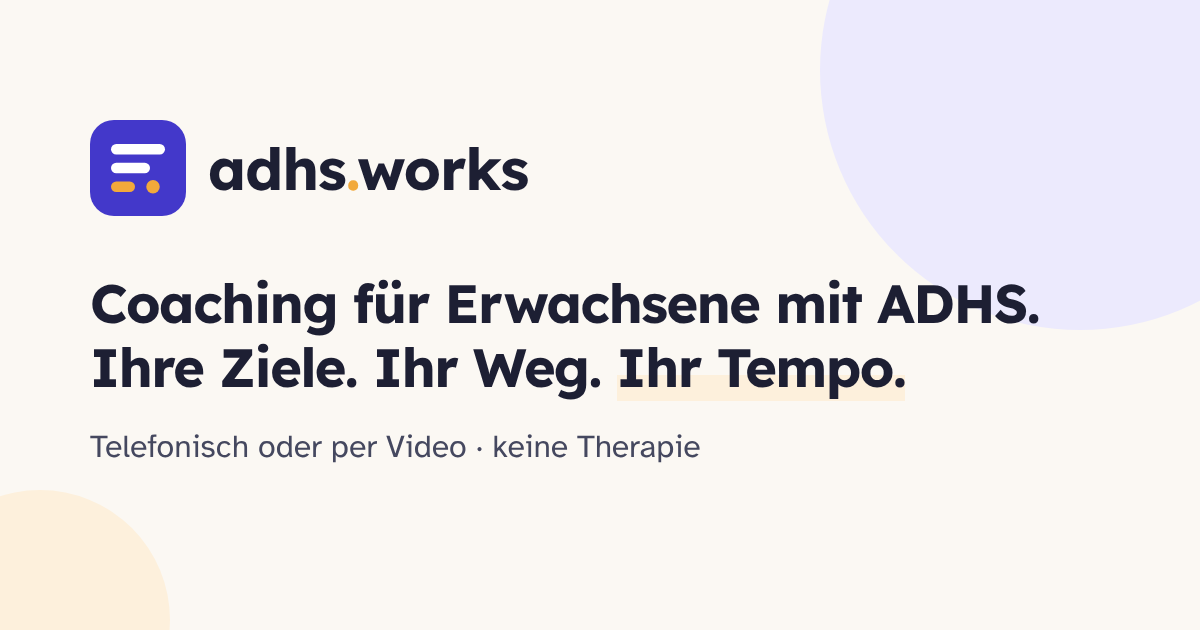
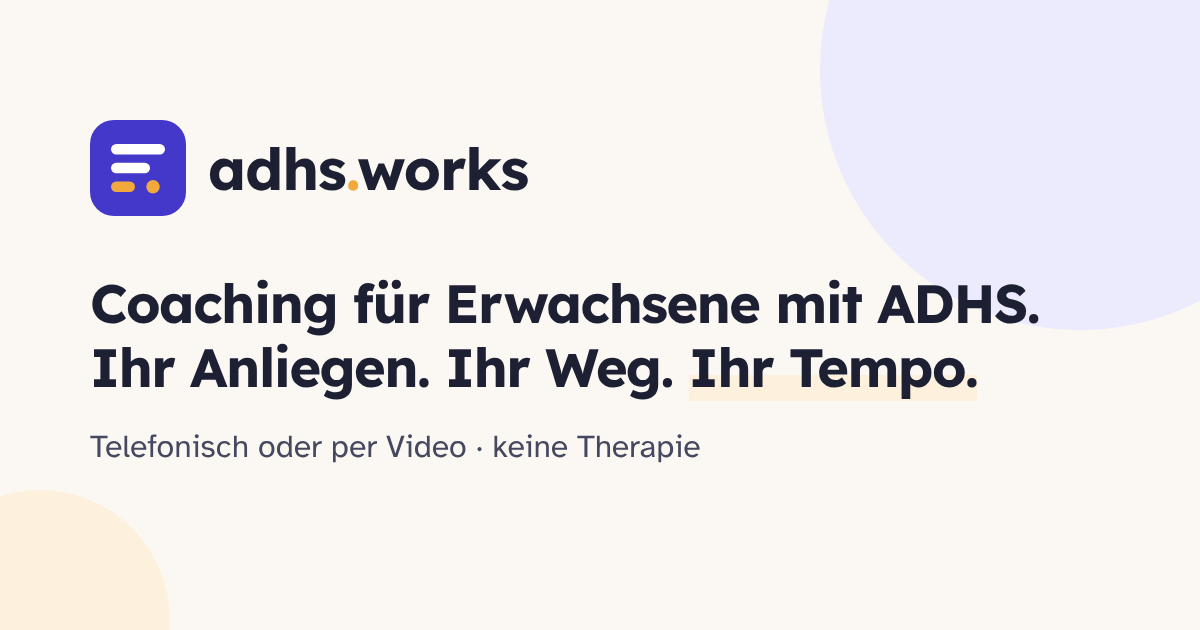
Anliegen statt Ziele, ohne Thema Alltag organisieren
Erster Schritt heißt hier "Anliegen klären". Das Wort "Ziel" kommt auf
der Website nicht mehr vor, die Themenkarte "Alltag organisieren" ist
gestrichen. Neues Spitzenzitat: "Coaching beginnt bei dem, was Sie
wollen und was Sie brauchen – nicht bei einer Diagnose."

Claude-Session: https://claude.ai/code/session_01SMp8GpMZ6WGt8Qen4bSYtE

Changed region(s): [[0.1233, 0.5429, 0.8325, 0.6333]]

diff --git a/index.html b/index.html
@@ -4,13 +4,13 @@
   <meta charset="utf-8" />
   <meta name="viewport" content="width=device-width, initial-scale=1" />
   <title>Coaching für Erwachsene mit ADHS – telefonisch und per Video | adhs.works</title>
-  <meta name="description" content="Coaching für Erwachsene mit ADHS: Beruf, Studium und Alltag nach Ihren Zielen gestalten. Keine Therapie. Telefonisch oder per Video, Erstgespräch kostenlos." />
+  <meta name="description" content="Coaching für Erwachsene mit ADHS zu Beruf, Studium und Entscheidungen – ausgehend von dem, was Sie wollen. Keine Therapie. Erstgespräch kostenlos." />
   <link rel="canonical" href="https://adhs.works/" />
   <meta property="og:type" content="website" />
   <meta property="og:title" content="Coaching für Erwachsene mit ADHS – adhs.works" />
-  <meta property="og:description" content="Beruf, Studium und Alltag nach Ihren Zielen gestalten. Keine Therapie. Telefonisch oder per Video, Erstgespräch kostenlos." />
+  <meta property="og:description" content="Beruf, Studium und Entscheidungen – ausgehend von dem, was Sie wollen und brauchen. Keine Therapie. Telefonisch oder per Video, Erstgespräch kostenlos." />
   <meta property="og:url" content="https://adhs.works/" />
-  <meta property="og:image" content="https://adhs.works/assets/img/og-image.png?v=2" />
+  <meta property="og:image" content="https://adhs.works/assets/img/og-image.png?v=3" />
   <meta property="og:locale" content="de_DE" />
   <meta property="og:site_name" content="adhs.works" />
   <meta name="theme-color" content="#fbf8f3" />
@@ -37,7 +37,7 @@
         "name": "Coaching für Erwachsene mit ADHS",
         "serviceType": "Coaching",
         "url": "https://adhs.works/",
-        "description": "Coaching für Erwachsene mit ADHS zu beruflichen und persönlichen Zielen: Beruf, Arbeitsumfeld, Studium, Alltagsorganisation, Entscheidungen. Keine Therapie und keine Heilbehandlung. Telefonisch oder per Videokonferenz.",
+        "description": "Coaching für Erwachsene mit ADHS zu beruflichen und persönlichen Anliegen: Beruf, Arbeitsumfeld, Studium, Entscheidungen, Stärken. Keine Therapie und keine Heilbehandlung. Telefonisch oder per Videokonferenz.",
         "provider": { "@id": "https://adhs.works/#person" },
         "areaServed": { "@type": "Country", "name": "Deutschland" },
         "audience": { "@type": "PeopleAudience", "audienceType": "Erwachsene mit ADHS" },
@@ -83,7 +83,7 @@
         <div class="hero-inner">
           <div class="hero-copy">
             <span class="eyebrow">Coaching für Erwachsene mit ADHS</span>
-            <h1>Ihre Ziele. Ihr Weg. <span class="hl">Ihr Tempo.</span></h1>
+            <h1>Ihr Anliegen. Ihr Weg. <span class="hl">Ihr Tempo.</span></h1>
             <p class="hero-lead">Sie wollen beruflich oder privat etwas voranbringen? Im Coaching klären wir Ihr Anliegen, erarbeiten Lösungen, die zu Ihrer Arbeitsweise passen, und ich begleite Sie bei der Umsetzung.</p>
             <div class="hero-actions">
               <a class="btn btn-primary" href="#erstgespraech">
@@ -113,7 +113,7 @@
             </li>
             <li>
               <svg viewBox="0 0 24 24" fill="none" stroke="currentColor" stroke-width="2.2" stroke-linecap="round" stroke-linejoin="round" aria-hidden="true"><circle cx="12" cy="12" r="9"/><circle cx="12" cy="12" r="5"/><circle cx="12" cy="12" r="1"/></svg>
-              <span><strong>Ihre Ziele im Mittelpunkt:</strong> Beruf, Studium, Alltag, Entscheidungen.</span>
+              <span><strong>Im Mittelpunkt steht, was Sie wollen:</strong> Beruf, Arbeitsumfeld, Studium, Entscheidungen.</span>
             </li>
             <li>
               <svg viewBox="0 0 24 24" fill="none" stroke="currentColor" stroke-width="2.2" stroke-linecap="round" stroke-linejoin="round" aria-hidden="true"><path d="M22 16.9v3a2 2 0 0 1-2.2 2 19.8 19.8 0 0 1-8.6-3.1 19.5 19.5 0 0 1-6-6A19.8 19.8 0 0 1 2.1 4.2 2 2 0 0 1 4.1 2h3a2 2 0 0 1 2 1.7c.1.9.4 1.8.7 2.7a2 2 0 0 1-.5 2.1L8 9.8a16 16 0 0 0 6 6l1.3-1.3a2 2 0 0 1 2.1-.4c.9.3 1.8.6 2.7.7a2 2 0 0 1 1.7 2z"/></svg>
@@ -154,12 +154,12 @@
           <li><span class="box" aria-hidden="true"><svg viewBox="0 0 24 24" fill="none" stroke="currentColor" stroke-width="3" stroke-linecap="round" stroke-linejoin="round"><path d="M20 6L9 17l-5-5"/></svg></span>Sie wollen beruflich etwas verändern oder neu anfangen.</li>
           <li><span class="box" aria-hidden="true"><svg viewBox="0 0 24 24" fill="none" stroke="currentColor" stroke-width="3" stroke-linecap="round" stroke-linejoin="round"><path d="M20 6L9 17l-5-5"/></svg></span>Sie stehen vor einer Entscheidung und wollen Klarheit.</li>
           <li><span class="box" aria-hidden="true"><svg viewBox="0 0 24 24" fill="none" stroke="currentColor" stroke-width="3" stroke-linecap="round" stroke-linejoin="round"><path d="M20 6L9 17l-5-5"/></svg></span>Sie möchten ein Vorhaben endlich in die Tat umsetzen.</li>
-          <li><span class="box" aria-hidden="true"><svg viewBox="0 0 24 24" fill="none" stroke="currentColor" stroke-width="3" stroke-linecap="round" stroke-linejoin="round"><path d="M20 6L9 17l-5-5"/></svg></span>Sie suchen eine Ordnung für Ihren Alltag, die zu Ihnen passt.</li>
+          <li><span class="box" aria-hidden="true"><svg viewBox="0 0 24 24" fill="none" stroke="currentColor" stroke-width="3" stroke-linecap="round" stroke-linejoin="round"><path d="M20 6L9 17l-5-5"/></svg></span>Sie wollen klären, was Sie im Job brauchen, um gut zu arbeiten.</li>
           <li><span class="box" aria-hidden="true"><svg viewBox="0 0 24 24" fill="none" stroke="currentColor" stroke-width="3" stroke-linecap="round" stroke-linejoin="round"><path d="M20 6L9 17l-5-5"/></svg></span>Sie wollen Ihre Stärken im Job gezielter einsetzen.</li>
           <li><span class="box" aria-hidden="true"><svg viewBox="0 0 24 24" fill="none" stroke="currentColor" stroke-width="3" stroke-linecap="round" stroke-linejoin="round"><path d="M20 6L9 17l-5-5"/></svg></span>Sie starten ins Studium, in eine Ausbildung oder in die Selbstständigkeit.</li>
         </ul>
         <div class="callout">
-          <p><strong>Im Mittelpunkt stehen Ihre Ziele, nicht Ihre Diagnose.</strong> Das Coaching nimmt Rücksicht darauf, wie Sie arbeiten. ADHS selbst ist nicht Gegenstand des Coachings.</p>
+          <p><strong>Es geht um Ihr Anliegen, nicht um Ihre Diagnose.</strong> Das Coaching nimmt Rücksicht darauf, wie Sie arbeiten. ADHS selbst ist nicht Gegenstand des Coachings.</p>
         </div>
         <p class="next"><a href="#themen">Weiter: Woran wir arbeiten können
           <svg viewBox="0 0 24 24" fill="none" stroke="currentColor" stroke-width="2.2" stroke-linecap="round" stroke-linejoin="round" aria-hidden="true"><path d="M12 5v14M6 13l6 6 6-6"/></svg></a></p>
@@ -178,7 +178,7 @@
           <article class="topic">
             <div class="topic-icon"><svg viewBox="0 0 24 24" fill="none" stroke="currentColor" stroke-width="2" stroke-linecap="round" stroke-linejoin="round" aria-hidden="true"><rect x="3" y="7" width="18" height="13" rx="2"/><path d="M8 7V5a2 2 0 0 1 2-2h4a2 2 0 0 1 2 2v2M3 13h18"/></svg></div>
             <h3>Beruf und Laufbahn</h3>
-            <p>Berufliche Ziele klären, einen Wechsel vorbereiten, den nächsten Schritt planen.</p>
+            <p>Klären, wohin Sie beruflich wollen, einen Wechsel vorbereiten, den nächsten Schritt planen.</p>
           </article>
           <article class="topic">
             <div class="topic-icon"><svg viewBox="0 0 24 24" fill="none" stroke="currentColor" stroke-width="2" stroke-linecap="round" stroke-linejoin="round" aria-hidden="true"><path d="M21 15a2 2 0 0 1-2 2H7l-4 4V5a2 2 0 0 1 2-2h14a2 2 0 0 1 2 2z"/></svg></div>
@@ -191,11 +191,6 @@
             <p>Semester, Lernphasen und Abschlussarbeiten so planen, dass der Plan zu Ihnen passt.</p>
           </article>
           <article class="topic">
-            <div class="topic-icon"><svg viewBox="0 0 24 24" fill="none" stroke="currentColor" stroke-width="2" stroke-linecap="round" stroke-linejoin="round" aria-hidden="true"><rect x="3" y="3" width="7" height="7" rx="1.5"/><rect x="14" y="3" width="7" height="7" rx="1.5"/><rect x="3" y="14" width="7" height="7" rx="1.5"/><rect x="14" y="14" width="7" height="7" rx="1.5"/></svg></div>
-            <h3>Alltag organisieren</h3>
-            <p>Abläufe, Termine und Aufgaben so ordnen, wie es für Sie funktioniert – nicht nach Schema F.</p>
-          </article>
-          <article class="topic">
             <div class="topic-icon"><svg viewBox="0 0 24 24" fill="none" stroke="currentColor" stroke-width="2" stroke-linecap="round" stroke-linejoin="round" aria-hidden="true"><path d="M6 3v12M18 9v12M6 15a3 3 0 1 0 0 6 3 3 0 0 0 0-6zM18 3a3 3 0 1 0 0 6 3 3 0 0 0 0-6zM6 9c0 6 12 0 12 6"/></svg></div>
             <h3>Entscheidungen</h3>
             <p>Möglichkeiten sortieren, abwägen und zu einer Entscheidung kommen, hinter der Sie stehen.</p>
@@ -203,7 +198,7 @@
           <article class="topic">
             <div class="topic-icon"><svg viewBox="0 0 24 24" fill="none" stroke="currentColor" stroke-width="2" stroke-linecap="round" stroke-linejoin="round" aria-hidden="true"><path d="M12 2l3 6.5 7 .8-5.2 4.8 1.4 7L12 17.6 5.8 21.1l1.4-7L2 9.3l7-.8L12 2z"/></svg></div>
             <h3>Stärken einsetzen</h3>
-            <p>Begeisterung und Ideenreichtum dort einsetzen, wo sie Sie und Ihre Ziele voranbringen.</p>
+            <p>Begeisterung und Ideenreichtum dort einsetzen, wo sie Sie voranbringen.</p>
           </article>
         </div>
         <p class="next"><a href="#ablauf">Weiter: So arbeiten wir
@@ -222,13 +217,13 @@
         <ol class="process">
           <li class="step">
             <div class="n" aria-hidden="true">1</div>
-            <h3>Probleme entdecken</h3>
-            <p>Worum geht es Ihnen? Wir klären Ihr Anliegen und Ihr Ziel.</p>
+            <h3>Anliegen klären</h3>
+            <p>Worum geht es Ihnen? Wir klären, was Sie wollen und was Sie dafür brauchen.</p>
           </li>
           <li class="step">
             <div class="n" aria-hidden="true">2</div>
             <h3>Tiefgreifend verstehen</h3>
-            <p>Was steht dem Ziel im Weg, was hilft schon? Wir schauen auf Ihre Situation und Ihre Rahmenbedingungen.</p>
+            <p>Was steht Ihrem Vorhaben im Weg, was hilft schon? Wir schauen auf Ihre Situation und Ihre Rahmenbedingungen.</p>
           </li>
           <li class="step">
             <div class="n" aria-hidden="true">3</div>
@@ -250,7 +245,7 @@
     <section class="section">
       <div class="container">
         <blockquote class="quote">
-          <p>„Coaching beginnt bei <span class="hl">Ihren Zielen</span> – nicht bei einer Diagnose.“</p>
+          <p>„Coaching beginnt bei dem, <span class="hl">was Sie wollen und was Sie brauchen</span> – nicht bei einer Diagnose.“</p>
         </blockquote>
       </div>
     </section>
@@ -282,7 +277,7 @@
         <div class="faq">
           <details>
             <summary>Was ist das für ein Coaching?</summary>
-            <div class="faq-a"><p>Coaching ist eine Begleitung bei beruflichen und persönlichen Anliegen. Sie bringen ein Ziel oder eine Frage mit, wir klären sie gemeinsam und erarbeiten Lösungen, die zu Ihnen passen. Dieses Coaching richtet sich an Erwachsene mit ADHS und nimmt Rücksicht darauf, wie Sie arbeiten. ADHS selbst ist nicht Gegenstand des Coachings.</p></div>
+            <div class="faq-a"><p>Coaching ist eine Begleitung bei beruflichen und persönlichen Anliegen. Sie bringen ein Anliegen oder eine Frage mit, wir klären sie gemeinsam und erarbeiten Lösungen, die zu Ihnen passen. Dieses Coaching richtet sich an Erwachsene mit ADHS und nimmt Rücksicht darauf, wie Sie arbeiten. ADHS selbst ist nicht Gegenstand des Coachings.</p></div>
           </details>
           <details>
             <summary>Ist das eine Therapie?</summary>

diff --git a/impressum.html b/impressum.html
@@ -65,7 +65,7 @@
           </p>
 
           <h2>Hinweis zum Angebot</h2>
-          <p>Das Angebot auf dieser Website ist Coaching zu beruflichen und persönlichen Zielen. Es ist keine Heilbehandlung und keine Psychotherapie: Es werden keine Beschwerden, Symptome oder ADHS-bedingten Probleme behandelt und keine Diagnosen gestellt. Coaching ersetzt keine ärztliche oder psychotherapeutische Diagnose oder Behandlung.</p>
+          <p>Das Angebot auf dieser Website ist Coaching zu beruflichen und persönlichen Anliegen. Es ist keine Heilbehandlung und keine Psychotherapie: Es werden keine Beschwerden, Symptome oder ADHS-bedingten Probleme behandelt und keine Diagnosen gestellt. Coaching ersetzt keine ärztliche oder psychotherapeutische Diagnose oder Behandlung.</p>
 
           <h2>Verbraucherstreitbeilegung</h2>
           <p>Ich bin nicht bereit oder verpflichtet, an Streitbeilegungsverfahren vor einer Verbraucherschlichtungsstelle teilzunehmen.</p>

diff --git a/.claude/CLAUDE.md b/.claude/CLAUDE.md
@@ -22,14 +22,15 @@ die persönliche Website markuswagner.live (Repo `KlarheitBeratungen/markuswagne
 3. **Design für Menschen mit ADHS:** eine Botschaft pro Abschnitt, kurze Absätze, „Kurz gesagt“-Kasten oben, nummerierte Abschnitte mit Sprungmarken, am Ende jedes Abschnitts ein klarer nächster Schritt. Keine Animationen, Karussells, Pop-ups oder automatisch startenden Medien. Kontraste mindestens 4,5 : 1, deutliche Fokus-Rahmen.
 4. Responsiv bauen (Handy ab 375 px ohne seitliches Überlaufen) und vor dem Veröffentlichen prüfen.
 5. **Abgrenzung zu Heilkunde und Psychotherapie (Heilpraktikergesetz, Psychotherapeutengesetz, Heilmittelwerbegesetz).** Markus hat keine Heilerlaubnis. Die Website darf nicht den Eindruck erwecken, es gehe um Feststellung, Heilung oder Linderung von ADHS.
-   - Gegenstand des Coachings sind berufliche und persönliche **Ziele** (Beruf, Arbeitsumfeld, Studium, Alltagsorganisation, Entscheidungen, Stärken). ADHS beschreibt nur die Zielgruppe, nie den Gegenstand: „Coaching für Erwachsene mit ADHS“, nicht „ADHS-Coaching“.
+   - Gegenstand des Coachings sind berufliche und persönliche **Anliegen**: das, was die Menschen wollen und brauchen (Beruf, Arbeitsumfeld, Studium, Entscheidungen, Stärken). ADHS beschreibt nur, für wen das Angebot ist, nie den Gegenstand: „Coaching für Erwachsene mit ADHS“, nicht „ADHS-Coaching“.
+   - Markus' Vorgaben (14.10.2026): **kein „Ziel/Ziele“** auf der Website (ersetzt durch Anliegen, Vorhaben, „was Sie wollen und was Sie brauchen“); **kein Thema „Alltag organisieren“**; „Alltag“ nur im Sinn von „im täglichen Leben“. Der 4-Schritt-Prozess beginnt hier mit **„Anliegen klären“** (statt „Probleme entdecken“ wie auf klarheit-beratungen.de). Spitzenzitat in der Mitte: „Coaching beginnt bei dem, was Sie wollen und was Sie brauchen – nicht bei einer Diagnose.“ Nicht ungefragt umschreiben.
    - Klar und an mehreren Stellen sagen: **keine Therapie, keine Behandlung von Beschwerden, Symptomen oder ADHS-bedingten Problemen, keine Diagnosen** (Kasten „Wichtig: Coaching ist keine Therapie“ unter „Kurz gesagt“, Hero, FAQ „Ist das eine Therapie?“, Fußzeile aller Seiten, Impressum, Hinweis im Formular).
    - **Verbotene Wörter und Motive:** „Strategie/Strategien“ (Markus' Vorgabe), Symptome als Erkennungsliste („Kommt Ihnen das bekannt vor?“), Aufschieben, Fokus/Konzentration, Zeitgefühl, Reize, Überforderung, Erschöpfung, Energie, Hyperfokus, Muster, „Ihr Kopf“, „mit Ihrem ADHS arbeiten“, Aussagen über das Wesen von ADHS, Heil- oder Erfolgsversprechen, „ergänzt die Therapie“, „Rezept“. Die Wörter Diagnose, Therapie, Behandlung, Beschwerden, Symptome nur in Abgrenzungs-Sätzen.
    - Keine Behauptungen über Markus' Qualifikation oder Erfahrung mit ADHS, die er nicht selbst geliefert hat.
 
 ## Technik
 - Statisches HTML/CSS/Vanilla-JS ohne Build. Design-System: `assets/css/style.css` (Indigo `#4338ca` + Bernstein `#f2a93b` auf warmem Papierton). Schriften lokal: Atkinson Hyperlegible (Text) und Lexend (Überschriften), beide SIL OFL.
-- Cache: HTML wird nicht zwischengespeichert, CSS/JS dagegen lange. **Bei jeder Änderung an `booking.js` oder `style.css` die `?v=`-Nummer in allen Seiten hochzählen, die die Datei einbinden** (Stand: `style.css?v=2` in allen 4 Seiten, `booking.js?v=2` in index.html, `og-image.png?v=2`; in `404.html` stehen die Pfade mit führendem `/`).
+- Cache: HTML wird nicht zwischengespeichert, CSS/JS dagegen lange. **Bei jeder Änderung an `booking.js` oder `style.css` die `?v=`-Nummer in allen Seiten hochzählen, die die Datei einbinden** (Stand: `style.css?v=2` in allen 4 Seiten, `booking.js?v=2` in index.html, `og-image.png?v=3`; in `404.html` stehen die Pfade mit führendem `/`).
 - Terminplaner: `assets/js/booking.js` → `send-booking.php` → Mail an wagner@klarheit-beratungen.de und automatische Eingangsbestätigung an den Anfragenden. Es gibt nur ein Anliegen, `Erstgespräch Coaching`. **Wird das Label oder das Terminformat in booking.js geändert, muss `$AREAS`/`$WHEN_RE` in send-booking.php mitgeändert werden**, sonst entfällt die Bestätigung stillschweigend. Die Bestätigung enthält bewusst weder Freitext noch das Wort „ADHS“ (falls jemand eine fremde Adresse einträgt).
 - **Einwilligung (Art. 9 DSGVO):** Eine Anfrage für ADHS-Coaching kann Gesundheitsdaten enthalten. Das Häkchen im Formular ist Pflicht und wird in send-booking.php geprüft (ohne → 422). Die Datenschutzerklärung (Ziffer 5 und 6) beschreibt das; bei Änderungen am Formular mitprüfen.
 - Versand per SMTP über `smtp-mail.php` (gleiche Datei wie auf klarheit-beratungen.de), bei Fehlern Rückfall auf PHP `mail()`. Die Zugangsdaten stehen in `mail-config.php` **außerhalb** von public_html auf dem Server: nie ins Repo, nie nach Passwörtern fragen oder sie eintragen.
